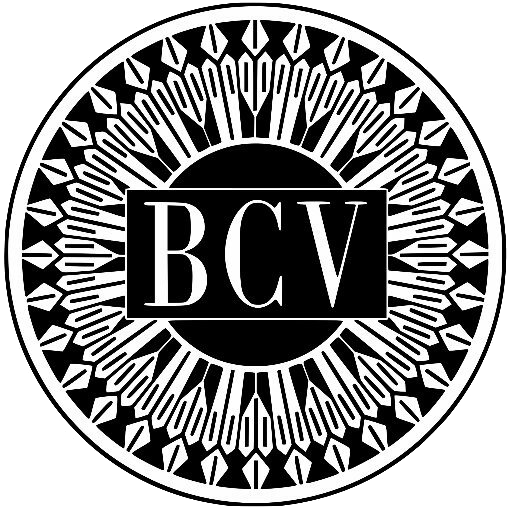
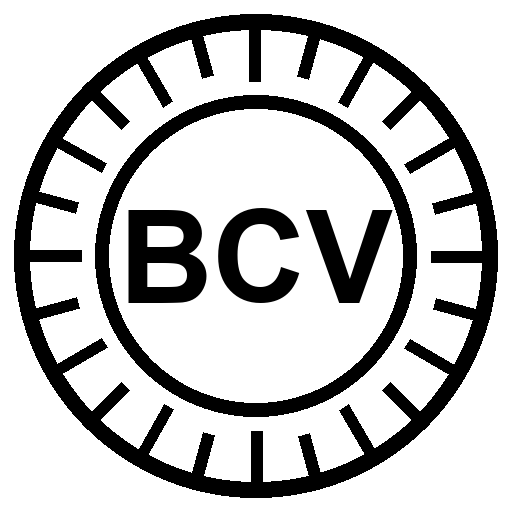
feat(ui): create crisp vector SVG emblem for BCV with clean sunburst and bold typography

diff --git a/app/layout.tsx b/app/layout.tsx
@@ -31,6 +31,7 @@ export default function RootLayout({
   return (
     <html lang="es" dir="ltr" className={`${GeistSans.variable} ${GeistMono.variable}`}>
       <head>
+        <link rel="preload" as="image" href="/bcv.svg" />
         <link rel="preload" as="image" href="/BCV.png" />
         <link rel="preload" as="image" href="/BINANCE.png" />
         <link rel="preload" as="image" href="/web-app-manifest-192x192.png" />

diff --git a/app/page.tsx b/app/page.tsx
@@ -100,7 +100,7 @@ export default function Home() {
   }, []);
 
   const getRateIcon = (name: string) => {
-      if (name.includes('BCV')) return '/BCV.png';
+      if (name.includes('BCV')) return '/bcv.svg';
       if (name.includes('BINANCE')) return '/BINANCE.png';
       return null;
   };
